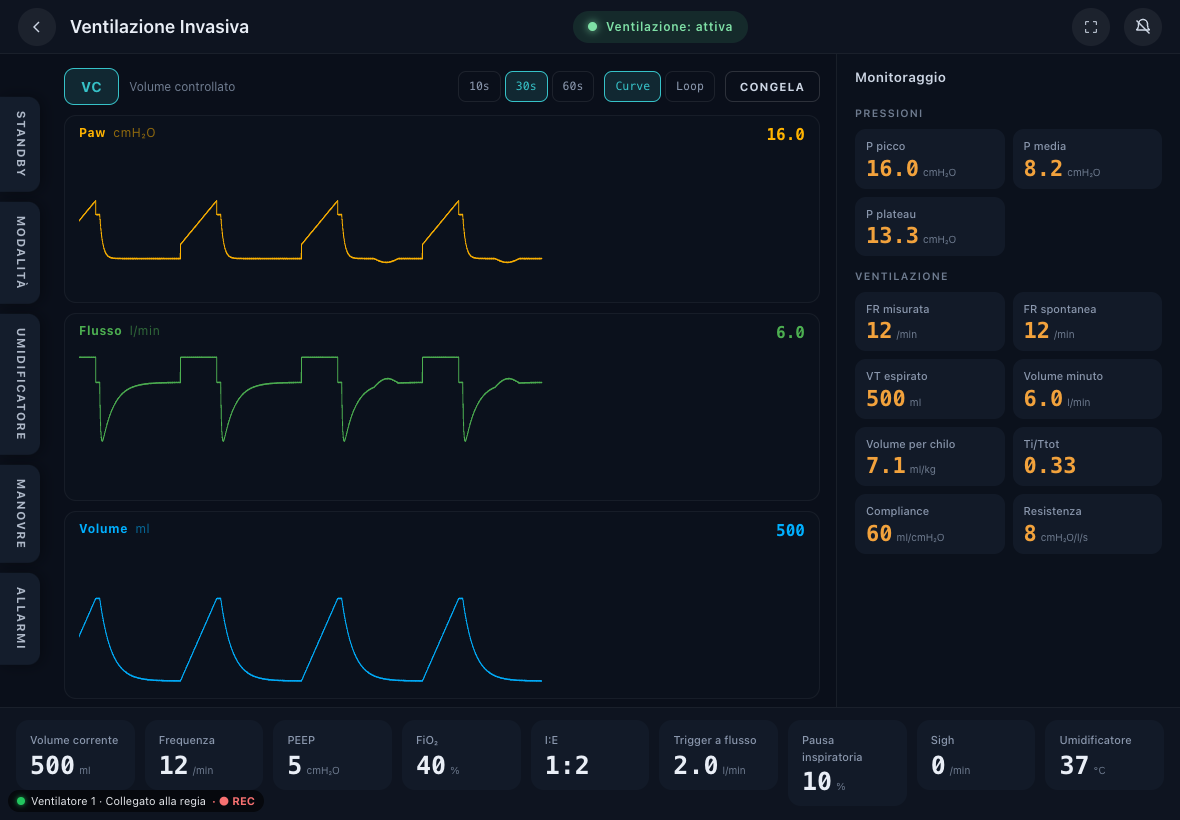
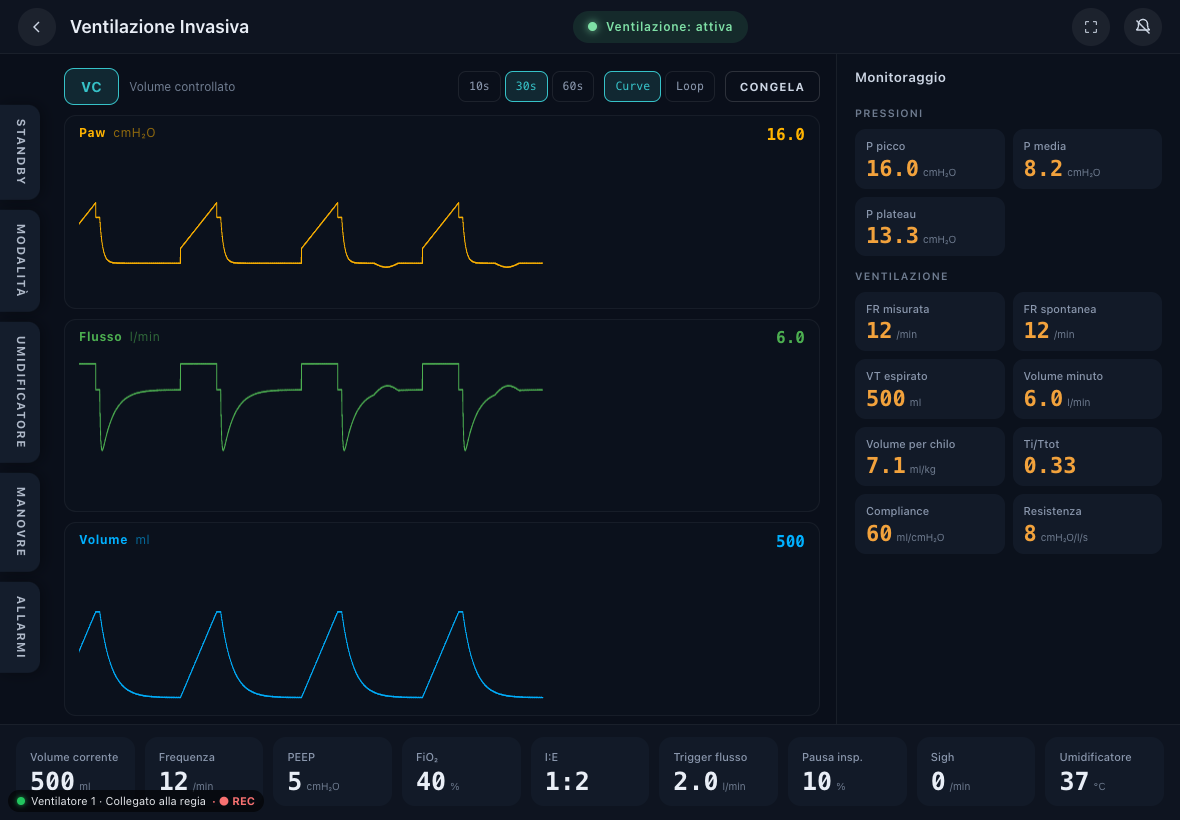
3.1.1: settings bar labels stay on one line (short name on the tile, full name in the tooltip)
Claude-Session: https://claude.ai/code/session_01QCkmf2daWxXvak57t6iRbG

diff --git a/device/screens/scenario/ventilatore/Ventilatore.tsx b/device/screens/scenario/ventilatore/Ventilatore.tsx
@@ -893,7 +893,7 @@ function Manopola({
       data-fam={`manopola-${chiave}`}
     >
       <button type="button" className="simvent__manopola-corpo" onClick={onApri} disabled={!operabile}>
-        <span className="simvent__etichetta">{t(def.etichetta)}</span>
+        <span className="simvent__etichetta" title={t(def.etichetta)}>{etichettaBreve(t, def.etichetta)}</span>
         <span className="simvent__valore simvent__valore--grande">
           <b>{scriviValore(chiave, valore)}</b>
           <em>{t(def.unita)}</em>
@@ -1616,4 +1616,15 @@ function coloreDellAgente(k: ChiaveMisura, agenti: Agente[] | undefined): CSSPro
         ? agenti?.[1]
         : undefined
   return quale ? { color: AGENTI[quale].colore } : undefined
+}
+
+/**
+ * OVS 3.1: sulla tessera della barra il nome corto, se c'è (`<chiave>.breve`):
+ * «Pausa inspiratoria» andava a capo e allungava tutte le tessere. Il nome
+ * intero resta nel tooltip e nei pannelli.
+ */
+function etichettaBreve(t: Translate, chiave: TranslationKey): string {
+  const breve = `${chiave}.breve` as TranslationKey
+  const testo = t(breve)
+  return testo === breve ? t(chiave) : testo
 }

diff --git a/device/device.css b/device/device.css
@@ -1216,3 +1216,18 @@
 .simvent__loop-comandi { display: flex; gap: 0.5rem; align-items: center; }
 .simvent__loop-comandi button { padding: 0.375rem 0.75rem; border: 1px solid rgba(255,255,255,0.14); border-radius: 8px; background: transparent; color: #cdd6e4; font-size: 0.72rem; font-weight: 600; cursor: pointer; }
 .simvent__loop-legenda { color: #8a97ad; font-size: 0.72rem; }
+
+/* Settings bar: the label stays on one line — a long name ("Inspiratory
+   pause", "Pausa inspiratoria") used to wrap, push the value down and make
+   every tile taller. It shrinks with the tile, and only as a last resort is
+   cut with an ellipsis (the full name is in the tooltip). */
+.simvent__manopola { container-type: inline-size; }
+.simvent__manopola-corpo .simvent__etichetta {
+  display: block;
+  max-width: 100%;
+  white-space: nowrap;
+  overflow: hidden;
+  text-overflow: ellipsis;
+  font-size: clamp(0.58rem, 10cqi, 0.6875rem);
+}
+.simvent__manopola-corpo .simvent__valore { white-space: nowrap; }

diff --git a/device/i18n/it.ts b/device/i18n/it.ts
@@ -91,6 +91,16 @@ export const it = {
   "vent.loop.tieni": "Tieni come riferimento",
   "vent.loop.togli": "Togli riferimento",
   "vent.loop.legenda": "In grigio: il riferimento. In bianco: l’atto in corso.",
+  "vent.param.inspiratoryPausePercent.breve": "Pausa insp.",
+  "vent.param.sighPressure.breve": "P sigh",
+  "vent.param.backupPressure.breve": "P backup",
+  "vent.param.backupFrequency.breve": "Freq. backup",
+  "vent.param.targetEtAgent.breve": "Et obiettivo",
+  "vent.param.targetEtSecondaryAgent.breve": "Et 2° obiett.",
+  "vent.param.deliveredTemperature.breve": "T erogata",
+  "vent.param.flowCycleOffPercent.breve": "Ciclaggio",
+  "vent.param.inspiratoryRiseTimeSeconds.breve": "Salita",
+  "vent.param.triggerFlow.breve": "Trigger flusso",
   "vent.mode.PC": "Pressione controllata",
   "vent.mode.PRVC": "Pressione regolata a volume controllato",
   "vent.mode.PS": "Pressione di supporto",

diff --git a/device/i18n/en.ts b/device/i18n/en.ts
@@ -93,6 +93,16 @@ export const en: Record<TranslationKey, string> = {
   "vent.loop.tieni": "Keep as reference",
   "vent.loop.togli": "Remove reference",
   "vent.loop.legenda": "Grey: reference. White: current breath.",
+  "vent.param.inspiratoryPausePercent.breve": "Insp. pause",
+  "vent.param.sighPressure.breve": "Sigh press.",
+  "vent.param.backupPressure.breve": "Backup press.",
+  "vent.param.backupFrequency.breve": "Backup rate",
+  "vent.param.targetEtAgent.breve": "Target Et",
+  "vent.param.targetEtSecondaryAgent.breve": "Target Et 2",
+  "vent.param.deliveredTemperature.breve": "Delivered T",
+  "vent.param.flowCycleOffPercent.breve": "Cycle-off",
+  "vent.param.inspiratoryRiseTimeSeconds.breve": "Rise time",
+  "vent.param.triggerFlow.breve": "Flow trigger",
   "vent.mode.PC": "Pressure control",
   "vent.mode.PRVC": "Pressure-regulated volume control",
   "vent.mode.PS": "Pressure support",

diff --git a/README.it.md b/README.it.md
@@ -2,7 +2,7 @@
 
 **Simulatore gratuito e open-source di ventilatore, macchina d'anestesia e alti flussi — con la regia dell'istruttore sulla rete della tua aula.**
 
-🇬🇧 [English version](README.md) · 📅 Versione 3.1.0 — pubblicata l'8 novembre 2026 · Licenza MIT
+🇬🇧 [English version](README.md) · 📅 Versione 3.1.1 — pubblicata l'8 novembre 2026 · Licenza MIT
 
 <p align="center"><img src="docs/screenshots/10-regia-live.png" width="820" alt="La regia vede il ventilatore dello studente in diretta"></p>
 
@@ -52,9 +52,9 @@ Vai alla pagina **[Releases](https://github.com/fedebarra/open-vent-sim/releases
 
 | Il tuo computer | File da scaricare |
 |---|---|
-| Windows | `OpenVentSim-3.1.0-win-x64.exe` (installazione) — oppure `OpenVentSim-3.1.0-portable.exe` (senza installare, si apre e basta) |
-| Mac con chip Apple (M1, M2, M3, M4…) | `OpenVentSim-3.1.0-mac-arm64.dmg` |
-| Mac con processore Intel | `OpenVentSim-3.1.0-mac-x64.dmg` |
+| Windows | `OpenVentSim-3.1.1-win-x64.exe` (installazione) — oppure `OpenVentSim-3.1.1-portable.exe` (senza installare, si apre e basta) |
+| Mac con chip Apple (M1, M2, M3, M4…) | `OpenVentSim-3.1.1-mac-arm64.dmg` |
+| Mac con processore Intel | `OpenVentSim-3.1.1-mac-x64.dmg` |
 
 > Se il `.dmg` non si apre, scarica il `.zip` con lo stesso nome: doppio clic per estrarlo, poi trascina **Open Vent Sim** in Applicazioni.
 
@@ -194,6 +194,10 @@ Il registro resta salvato anche se chiudi e riapri la regia.
 | Voglio l'interfaccia vecchia (2.x) | Nel browser aggiungi `?legacy=1` all'indirizzo, da soli. |
 
 ## 9. Novità
+
+### 3.1.1 — 8 novembre 2026
+
+- Barra dei parametri: i nomi lunghi («Pausa inspiratoria») non vanno più a capo; sulla tessera c'è il nome corto, quello intero nel suggerimento.
 
 ### 3.1 — 8 novembre 2026
 

diff --git a/README.md b/README.md
@@ -2,7 +2,7 @@
 
 **A free, open-source simulator of ICU ventilator, anaesthesia machine and high-flow oxygen — with an instructor console that runs on your classroom's own network.**
 
-🇮🇹 [Versione italiana](README.it.md) · 📅 Version 3.1.0 — released 8 November 2026 · MIT licence
+🇮🇹 [Versione italiana](README.it.md) · 📅 Version 3.1.1 — released 8 November 2026 · MIT licence
 
 <p align="center"><img src="docs/screenshots/10-regia-live-en.png" width="820" alt="The instructor console showing a learner's ventilator live"></p>
 
@@ -52,9 +52,9 @@ Go to **[Releases](https://github.com/fedebarra/open-vent-sim/releases/latest)**
 
 | Your computer | File |
 |---|---|
-| Windows | `OpenVentSim-3.1.0-win-x64.exe` (installer) — or `OpenVentSim-3.1.0-portable.exe` (no install, just run it) |
-| Mac with Apple chip (M1, M2, M3, M4…) | `OpenVentSim-3.1.0-mac-arm64.dmg` |
-| Mac with Intel processor | `OpenVentSim-3.1.0-mac-x64.dmg` |
+| Windows | `OpenVentSim-3.1.1-win-x64.exe` (installer) — or `OpenVentSim-3.1.1-portable.exe` (no install, just run it) |
+| Mac with Apple chip (M1, M2, M3, M4…) | `OpenVentSim-3.1.1-mac-arm64.dmg` |
+| Mac with Intel processor | `OpenVentSim-3.1.1-mac-x64.dmg` |
 
 > If the `.dmg` won't open, download the `.zip` with the same name: double-click to extract, then drag **Open Vent Sim** into Applications.
 
@@ -194,6 +194,10 @@ The log survives closing and reopening the console.
 | I want the old (2.x) interface | In the browser, add `?legacy=1` to the address (stand-alone only). |
 
 ## 9. What's new
+
+### 3.1.1 — 8 November 2026
+
+- Settings bar: long names ("Inspiratory pause") no longer wrap; the tile shows the short name, the full one is in the tooltip.
 
 ### 3.1 — 8 November 2026
 
